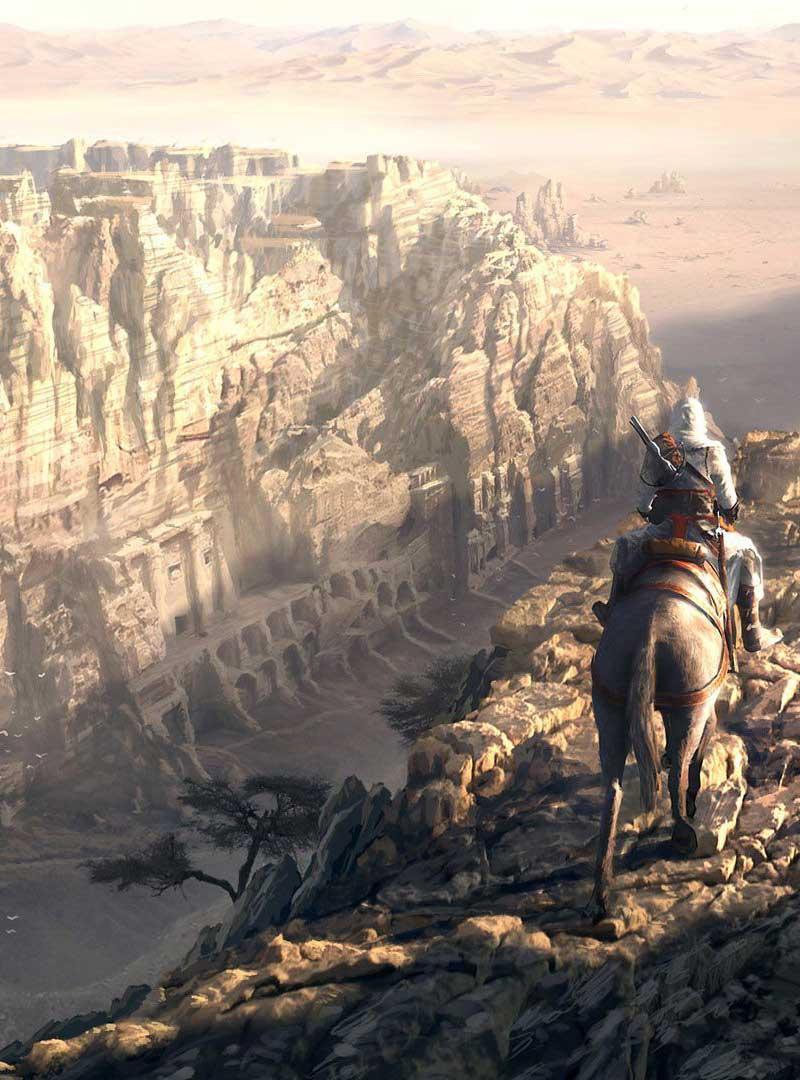
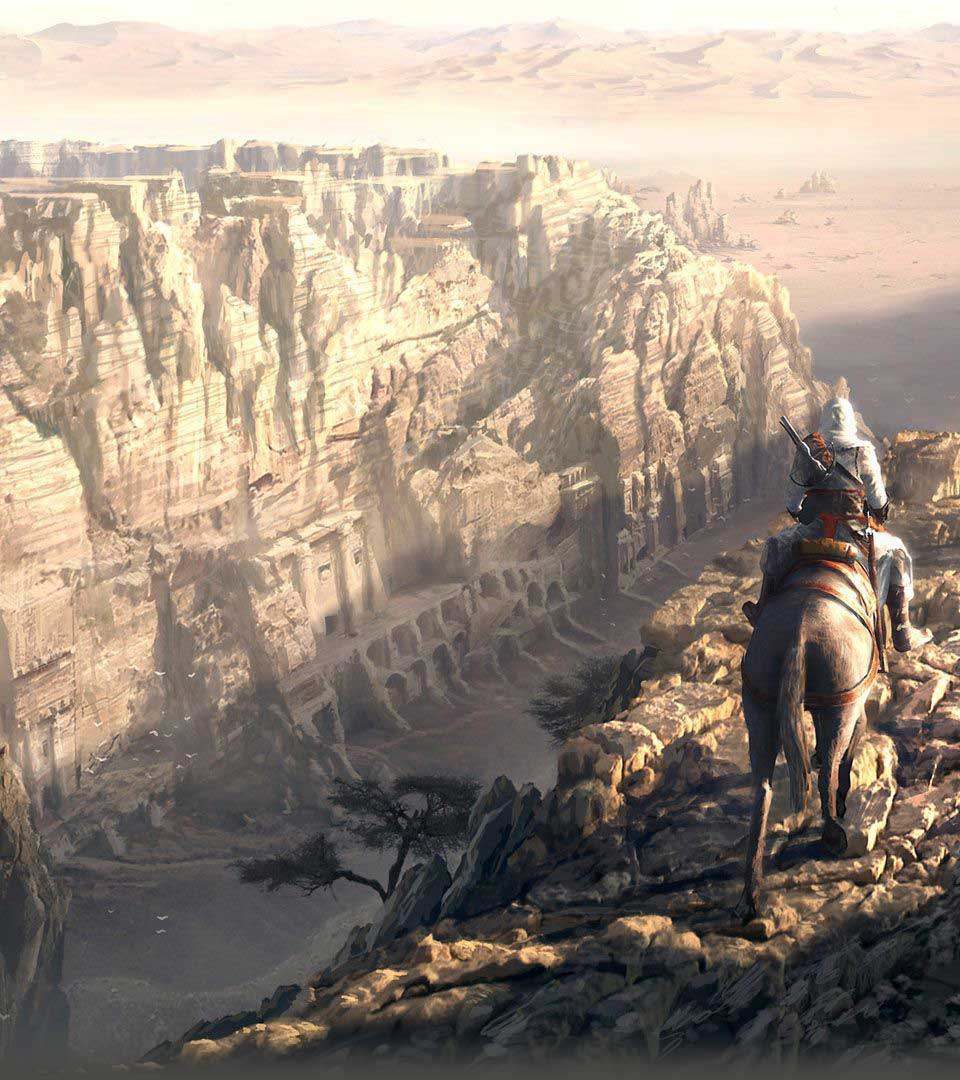
Updated CSS and added better sized background images.

diff --git a/sites/all/themes/rpg/css/rpg-alpha-default-wide.css b/sites/all/themes/rpg/css/rpg-alpha-default-wide.css
@@ -1,10 +1,7 @@
 /* This file will hold styles that are loaded using the same media query as the wide grid. */
 body{
 	background-image:url(../images/main_bg-wide.jpg);
-}
-
-h2.pane-title{
-	background-image:url(../images/pane-title-bg-wide.jpg);
+  background-repeat:no-repeat;
 }
 
 .container-12 .grid-12 .panel-pane h2.pane-title{

diff --git a/sites/all/themes/rpg/css/rpg-alpha-default-narrow.css b/sites/all/themes/rpg/css/rpg-alpha-default-narrow.css
@@ -4,5 +4,11 @@
  *  and widescreen CSS files as appropriate. */
 
 body{
-	background-image:url(../images/main_bg-narrow.jpg);
+  background-image:url(../images/main_bg-narrow.jpg);
+  background-repeat:no-repeat;
+  }
+
+h2.pane-title{
+  background-image:url(../images/pane-title-bg-wide.jpg);
 }
+

diff --git a/sites/all/themes/rpg/css/rpg-alpha-default-normal.css b/sites/all/themes/rpg/css/rpg-alpha-default-normal.css
@@ -5,5 +5,5 @@
 body{
 	background-image:url(../images/main_bg-normal.jpg);
 	background-repeat:no-repeat;
-	background-position:center top;
 }
+
